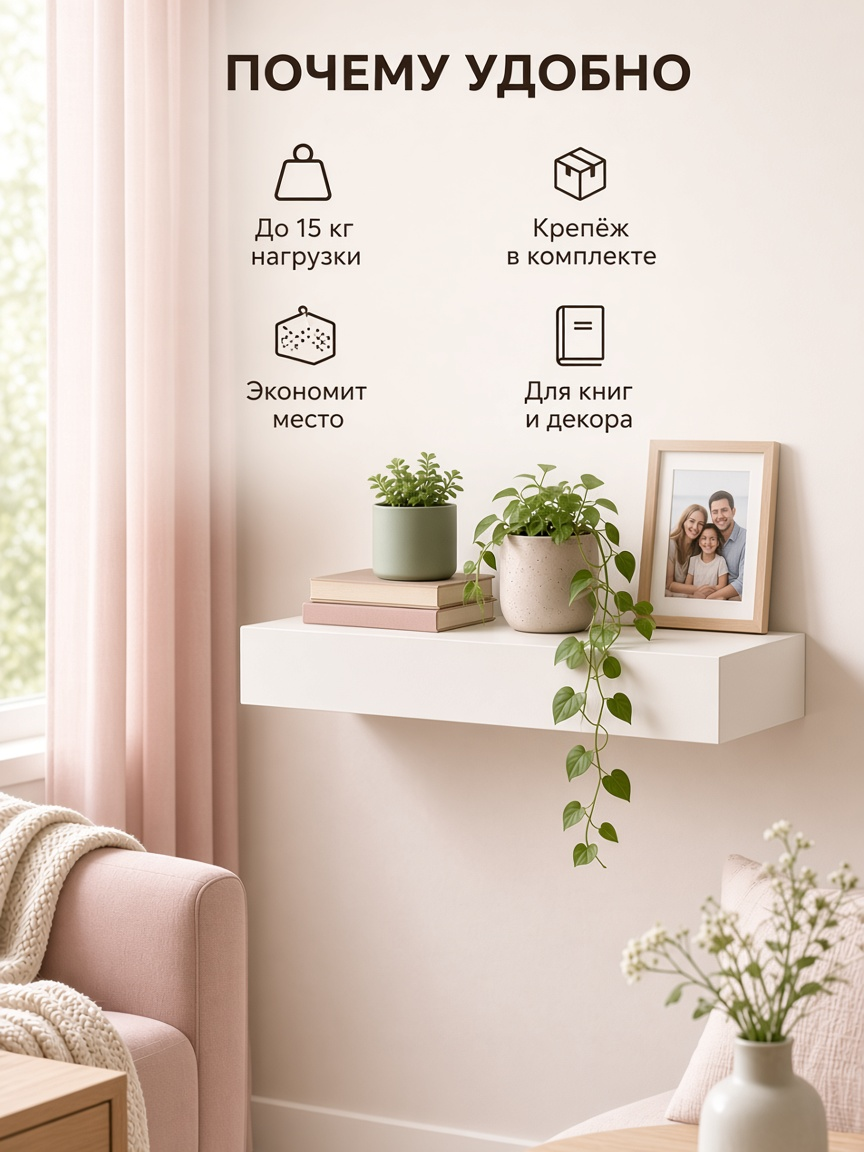
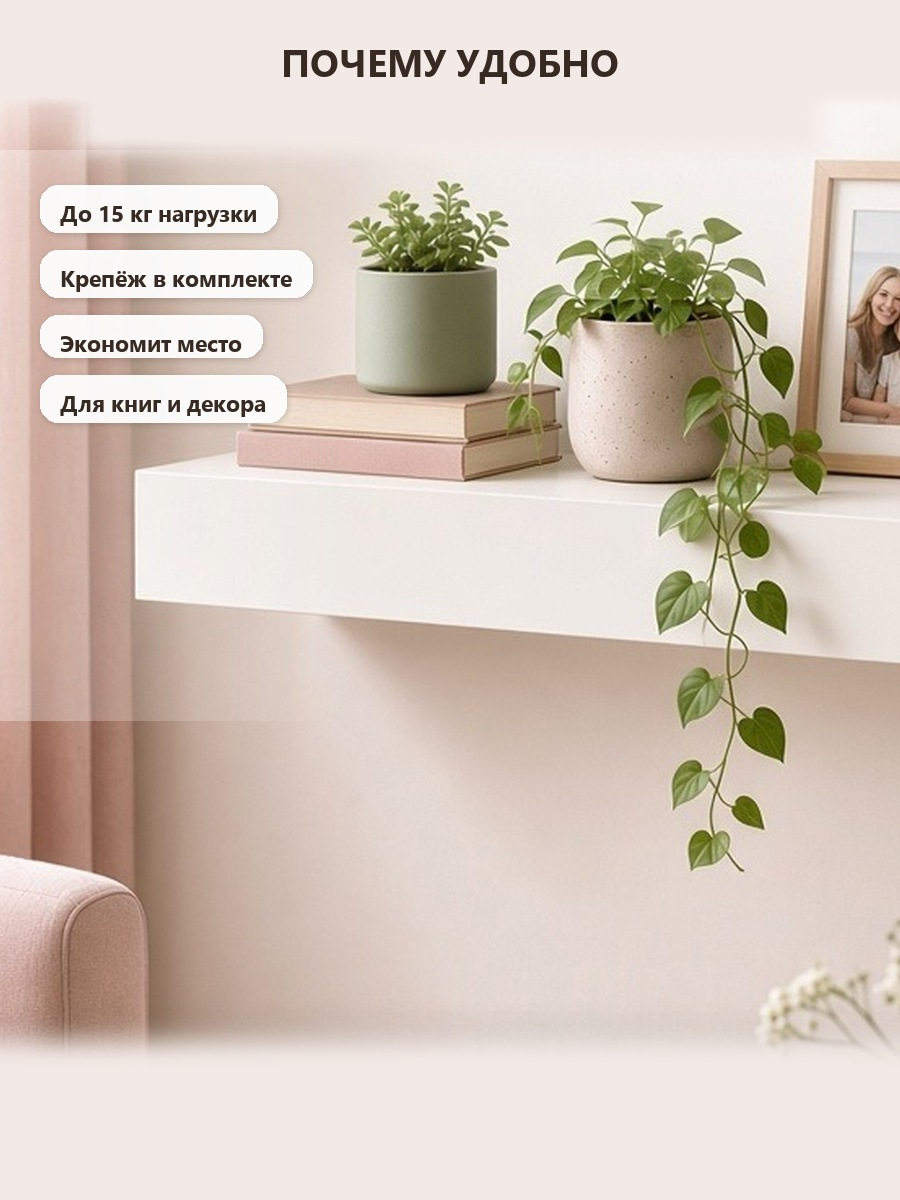
Replace 2x2 benefit cards with lifestyle callout pills for shelf and poncho.

diff --git a/public/marketplace/index.html b/public/marketplace/index.html
@@ -217,7 +217,7 @@
           <figure class="mp-slide"><img src="../images/marketplace/case2/01_cover.jpg?v=20261027m" alt="Обложка навесной полки" loading="lazy" width="450" height="600"><figcaption>01 · обложка</figcaption></figure>
           <figure class="mp-slide"><img src="../images/marketplace/case2/02_lifestyle.jpg?v=20261027j" alt="Полка в интерьере" loading="lazy" width="450" height="600"><figcaption>02 · в интерьере</figcaption></figure>
           <figure class="mp-slide"><img src="../images/marketplace/case2/03_specs_dims.jpg?v=20261027o" alt="Размеры и нагрузка" loading="lazy" width="450" height="600"><figcaption>03 · размеры</figcaption></figure>
-          <figure class="mp-slide"><img src="../images/marketplace/case2/04_benefits.jpg?v=20261027f" alt="Выгоды полки" loading="lazy" width="450" height="600"><figcaption>04 · выгоды</figcaption></figure>
+          <figure class="mp-slide"><img src="../images/marketplace/case2/04_benefits.jpg?v=20261027p" alt="Выгоды полки" loading="lazy" width="450" height="600"><figcaption>04 · выгоды</figcaption></figure>
           <figure class="mp-slide"><img src="../images/marketplace/case2/05_compare.jpg?v=20261027f" alt="Сравнение со шкафом" loading="lazy" width="450" height="600"><figcaption>05 · сравнение</figcaption></figure>
         </div>
       </article>
@@ -231,7 +231,7 @@
         <div class="mp-slides">
           <figure class="mp-slide"><img src="../images/marketplace/case3/01_cover.jpg?v=20261027m" alt="Обложка плед-пончо" loading="lazy" width="450" height="600"><figcaption>01 · обложка</figcaption></figure>
           <figure class="mp-slide"><img src="../images/marketplace/case3/02_product.jpg" alt="Фактура и крой" loading="lazy" width="450" height="600"><figcaption>02 · товар</figcaption></figure>
-          <figure class="mp-slide"><img src="../images/marketplace/case3/03_benefits.jpg?v=20261027k" alt="Выгоды" loading="lazy" width="450" height="600"><figcaption>03 · выгоды</figcaption></figure>
+          <figure class="mp-slide"><img src="../images/marketplace/case3/03_benefits.jpg?v=20261027p" alt="Выгоды" loading="lazy" width="450" height="600"><figcaption>03 · выгоды</figcaption></figure>
           <figure class="mp-slide"><img src="../images/marketplace/case3/04_scenarios.jpg?v=20261027f" alt="Когда носить" loading="lazy" width="450" height="600"><figcaption>04 · сценарии</figcaption></figure>
           <figure class="mp-slide"><img src="../images/marketplace/case3/05_care.jpg?v=20261027k" alt="Состав и уход" loading="lazy" width="450" height="600"><figcaption>05 · уход</figcaption></figure>
         </div>

diff --git a/public/showcase/mp/index.html b/public/showcase/mp/index.html
@@ -143,7 +143,7 @@
         </div>
         <div class="mp-slides">
           <figure class="mp-slide"><img src="../../images/marketplace/case2/01_cover.jpg?v=20261027m" alt="" loading="lazy" width="450" height="600"></figure>
-          <figure class="mp-slide"><img src="../../images/marketplace/case2/04_benefits.jpg?v=20261027f" alt="" loading="lazy" width="450" height="600"></figure>
+          <figure class="mp-slide"><img src="../../images/marketplace/case2/04_benefits.jpg?v=20261027p" alt="" loading="lazy" width="450" height="600"></figure>
           <figure class="mp-slide"><img src="../../images/marketplace/case2/05_compare.jpg?v=20261027f" alt="" loading="lazy" width="450" height="600"></figure>
         </div>
       </article>
